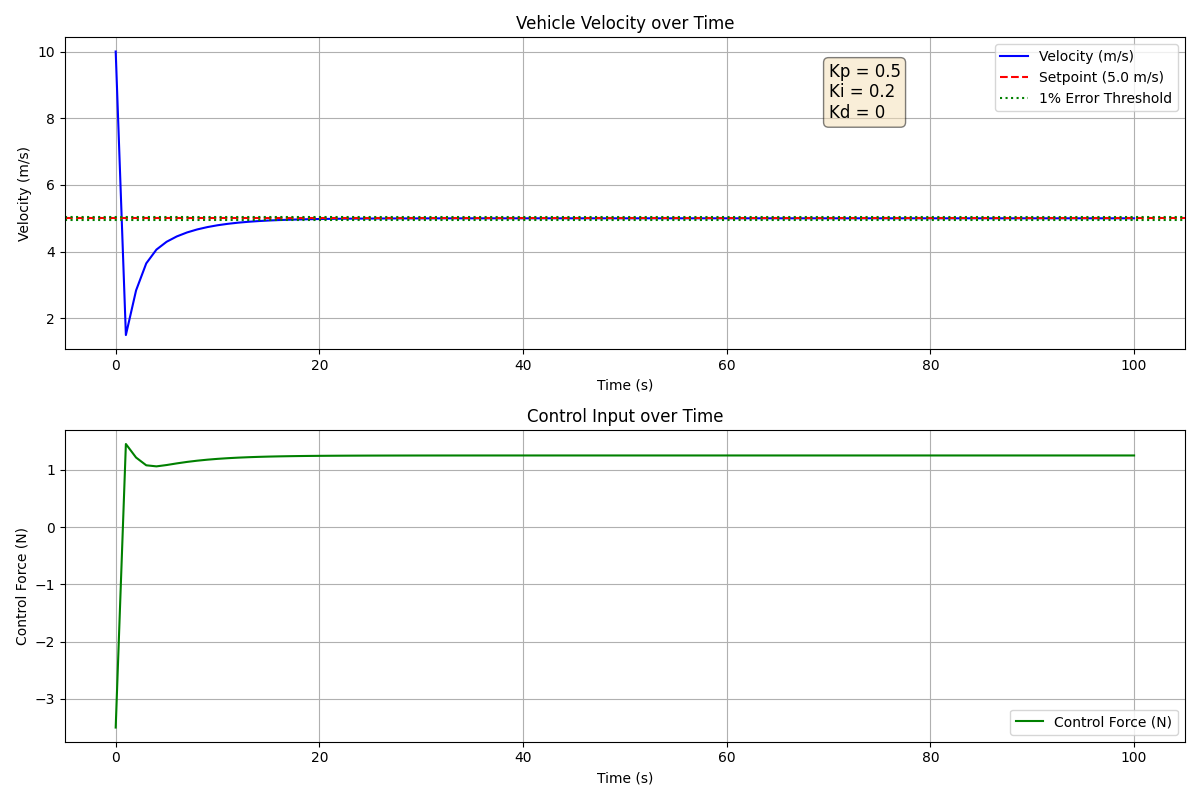
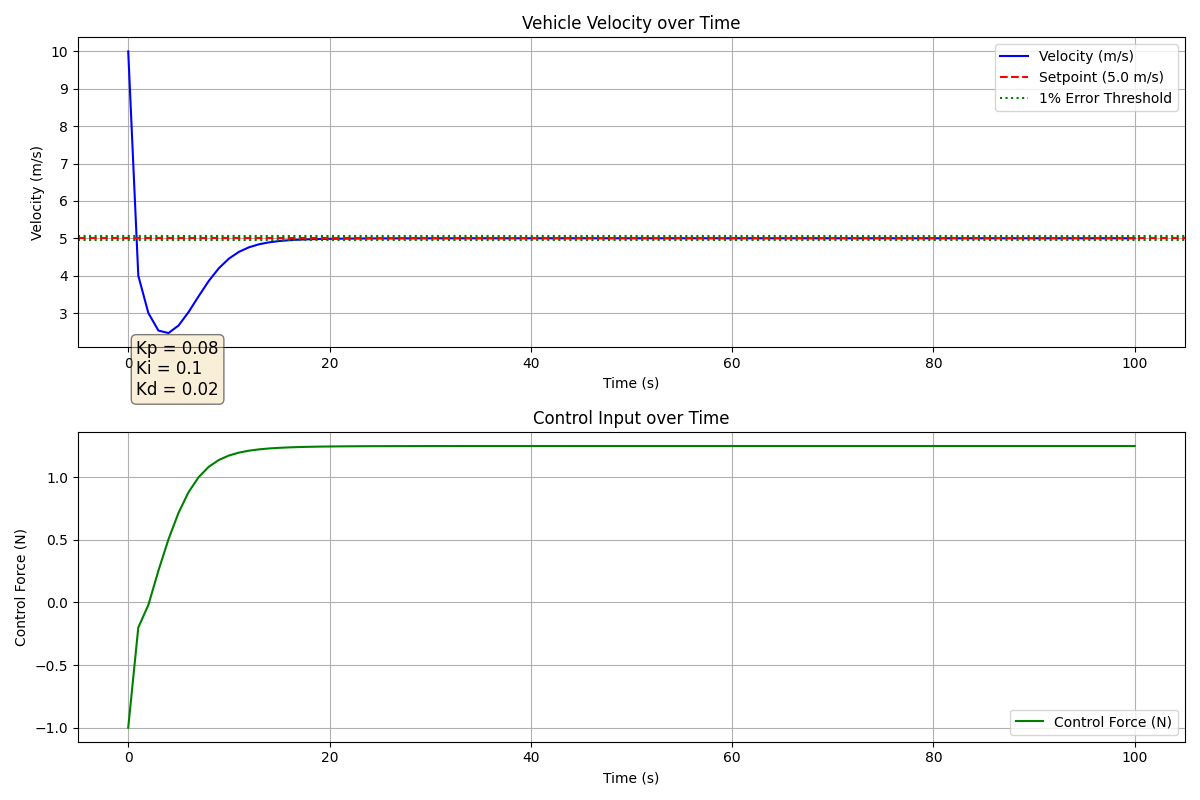
update README.md

diff --git a/src/simulation.py b/src/simulation.py
@@ -100,7 +100,8 @@ class Simulation:
 
             # Plot controller gains
             props = dict(boxstyle='round', facecolor='wheat', alpha=0.5)
-            plt.text(70, 8, f"Kp = {self.controller.kp}\nKi = {self.controller.ki}\nKd = {self.controller.kd}", fontsize=12, bbox=props)
+            plt.text(0.8, 0.8, f"Kp = {self.controller.kp}\nKi = {self.controller.ki}\nKd = {self.controller.kd}"
+                     , fontsize=12, bbox=props)
         
         plt.grid(True)
         plt.xlabel('Time (s)')

diff --git a/src/main.py b/src/main.py
@@ -9,6 +9,6 @@ sim_uncontrolled = run_uncontrolled_simulation(v_init=10, duration_s=100
 
 # Run the PID controlled simulation
 print("\nRunning PID controlled simulation...")
-sim_controlled = run_pid_controlled_simulation(v_init=10, kp=0.5, ki=0.2, kd=0
+sim_controlled = run_pid_controlled_simulation(v_init=10, kp=0.08, ki=0.1, kd=0.02
                                                 , setpoint=5.0, duration_s=100
                                                 , filename = "pid_controlled_v_t_plot.png")

diff --git a/README.md b/README.md
@@ -22,6 +22,50 @@ subject to a force which is a function of its velocity:
 
 - Sampling time is 1s.
 
-1. Plot the velocity as a function of time
-2. Apply a PID controller to fix the speed to 5 m/s with a 1% error under 30s. Plot the result.
-3. Explain how you selected the gains. Are these robust with respect changes in the initial velocity
+--- 
+
+### 0. Simulation implementation & unit test
+See Class Diagram_Vehicle Dynamic with PID control.png for class design
+
+![Class_Diagram](./Class Diagram_Vehicle Dynamic with PID control.png)
+
+All unit test int ./tests/ are passed with pytest
+--- 
+### 1. Plot the velocity as a function of time
+
+See unontrolled_v_t_plot.png
+
+![unontrolled_v_t_plot](./unontrolled_v_t_plot.png)
+--- 
+
+### 2. Apply a PID controller to fix the speed to 5 m/s with a 1% error under 30s. Plot the result.
+
+See pid_controlled_v_t_plot.png
+
+![pid_controlled_v_t_plot.png](./pid_controlled_v_t_plot.png)
+--- 
+
+### 3. Explain how you selected the gains. Are these robust with respect changes in the initial velocity
+--> The vehicle dynamics is inherently non-linear(quadratic to velocity), consider Method 1 & 2
+
+#### Method 1: Manual PID tuning
+EOM(dv/dt = u + f = u - sign(v)*k*v^2) shows the characteristic of system to be:
+- Negative sign for quadratic term indicate the system is likely to converge
+- insensitive to control input at high velocity
+- sensitive to control input at low velocity
+
+From this nature, we can decide manual PID tuning strategy
+- Gains tuned at large initial velocity should still make low initial velocity case stable
+- Start wtih PI term since the system was not subjected to high frequency disturbance
+- Start with high Kp for better response time
+- Adjust Ki to reduce steady-state error
+- Add some Kd but be aware not to make sharp actions
+
+Based on the judgement above, the selected gain should be robust for lower initial velocity, margin for higher initial velocity should be investigated.
+
+
+#### Method 2: Gain Scheduling
+To improve the control performance throughout all velocity region, we can apply a simple gain schedule
+- For v > 1 (m/s), larger Kp, Ki preffered
+- For v > 1 (m/s), smaller Kp, Ki preffered
+
